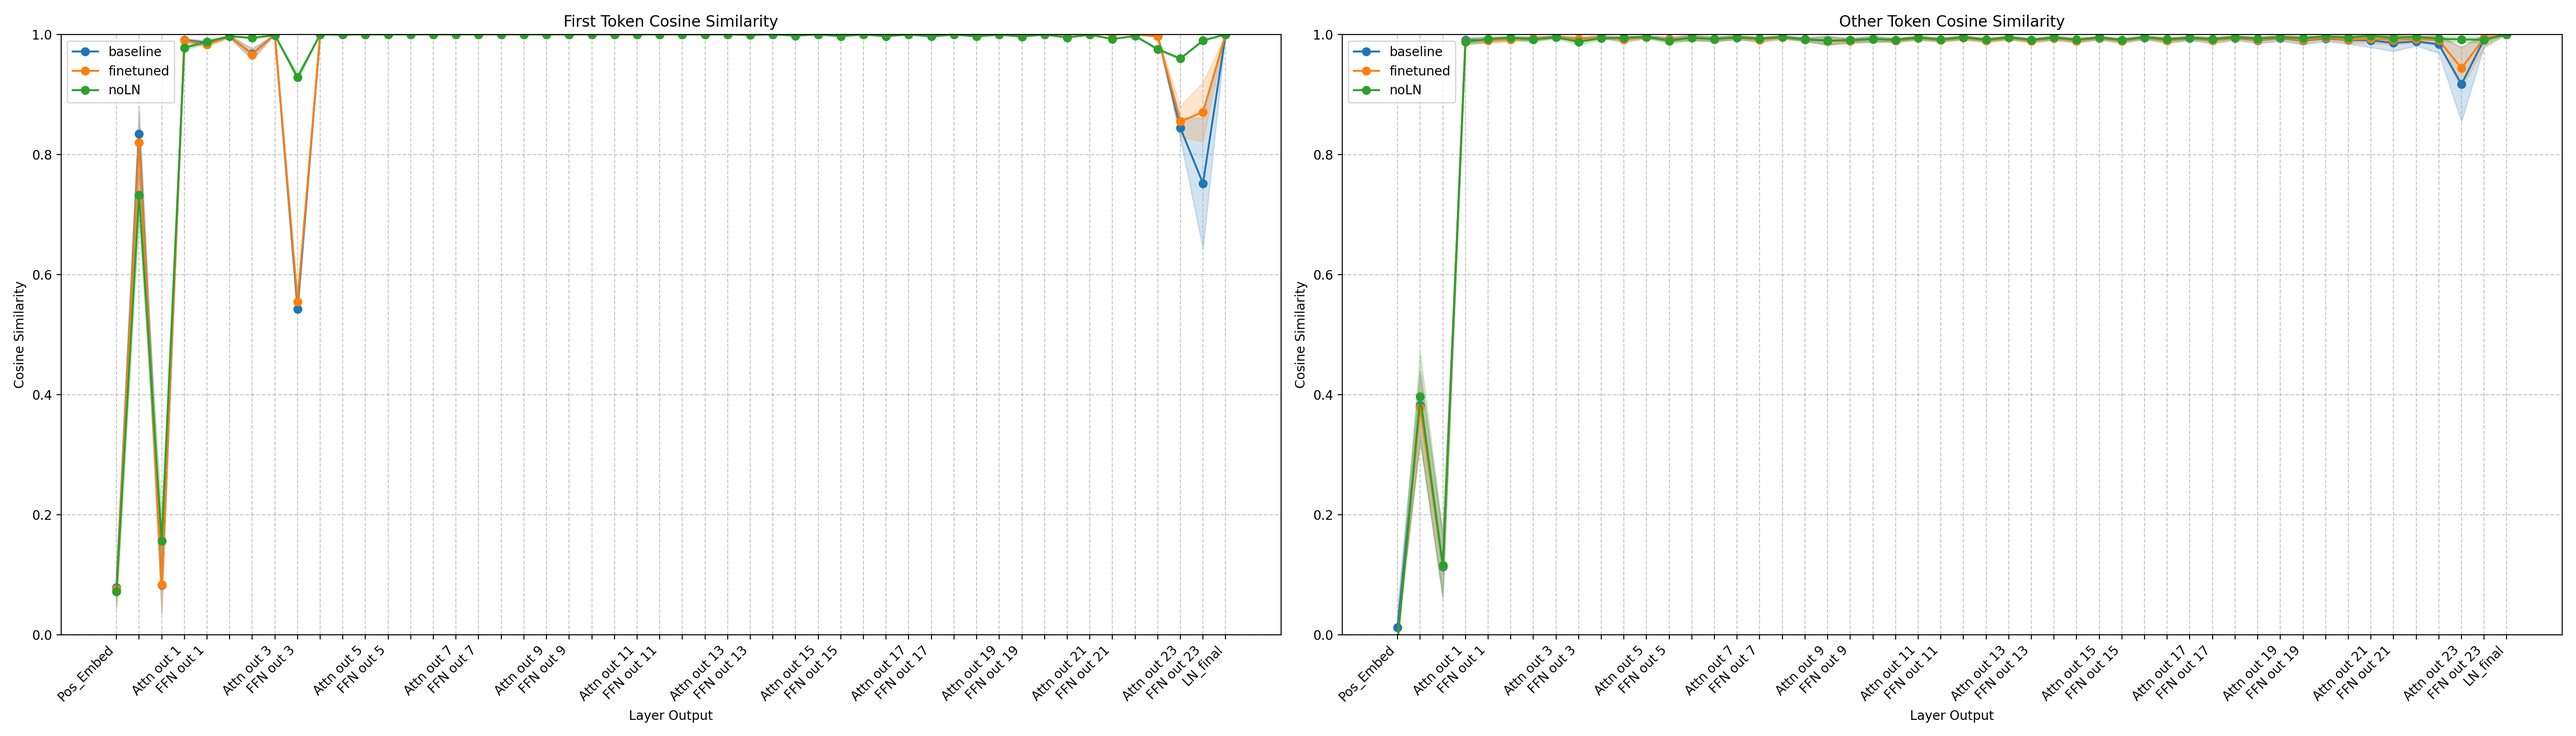
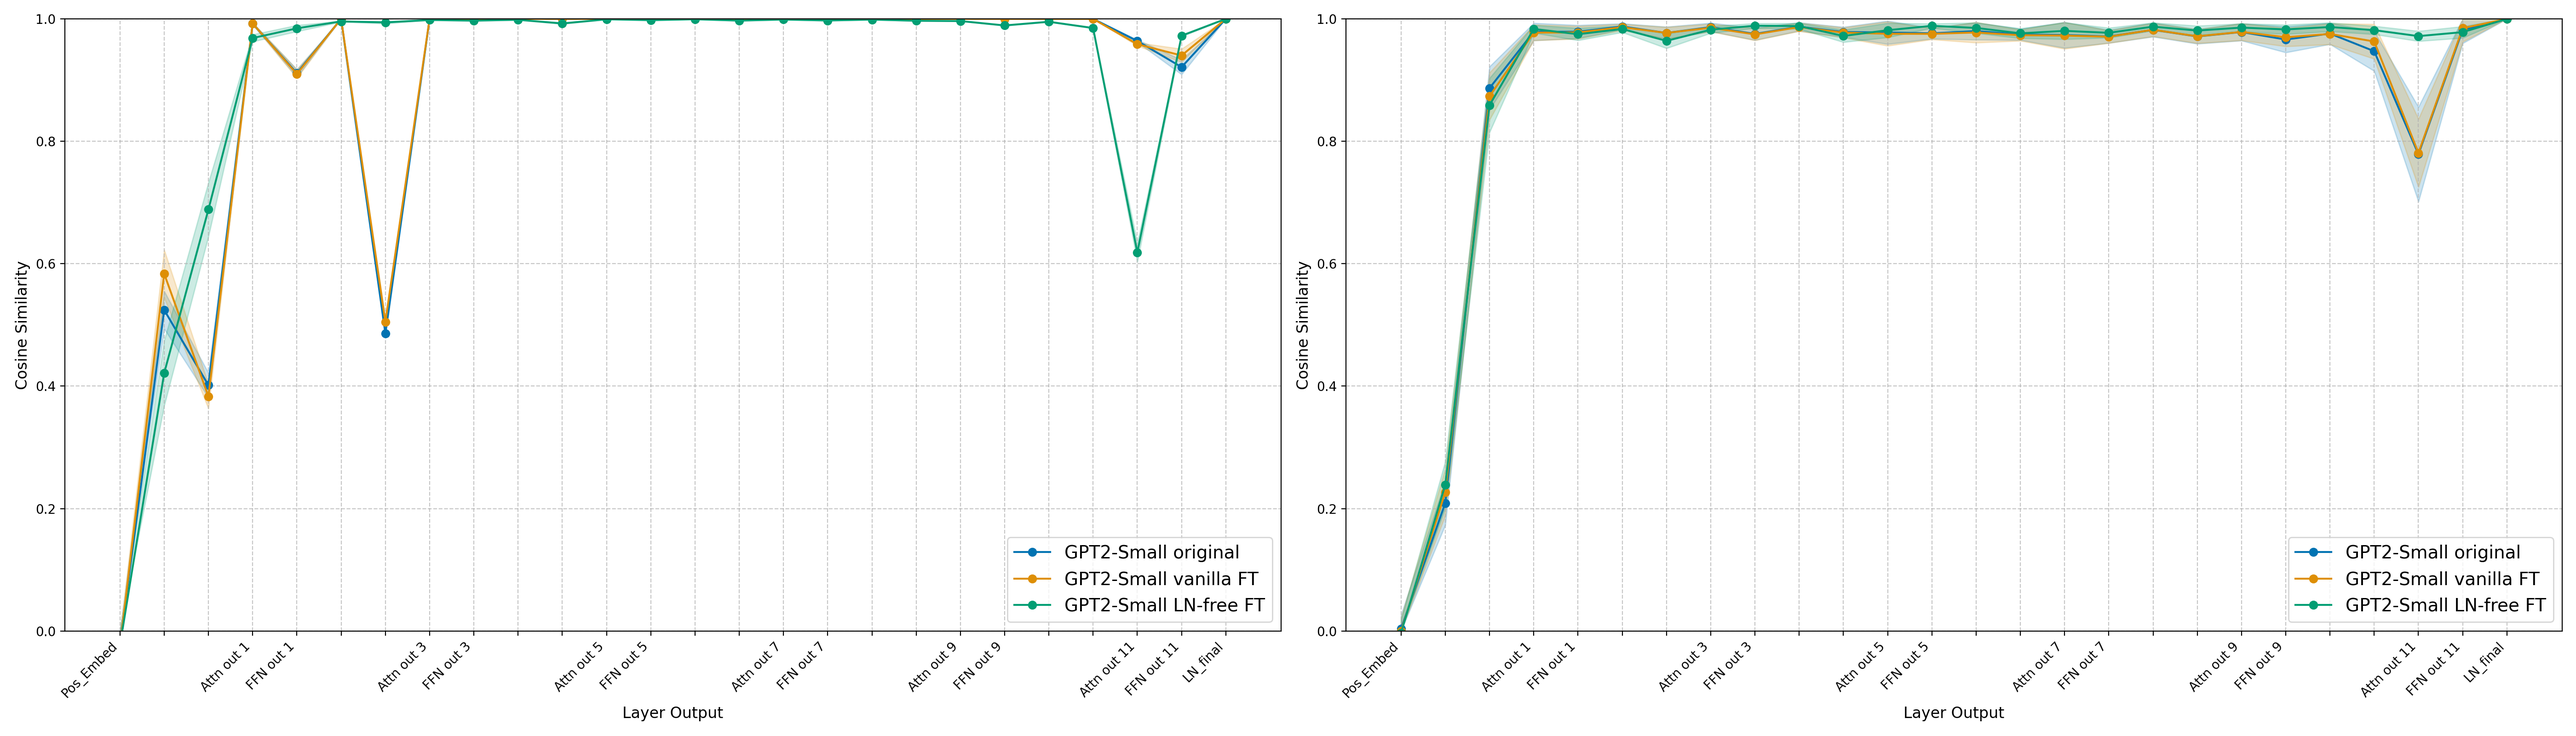
residual stream plotting format finalised

diff --git a/mech_interp/residual_stream/residual_norms.py b/mech_interp/residual_stream/residual_norms.py
@@ -2,11 +2,10 @@ import os
 import sys
 import numpy as np
 import pandas as pd
-import matplotlib.pyplot as plt
-import matplotlib.animation as animation
 import torch
-from typing import Dict, List, Optional, Union, Literal, Tuple
-from transformer_lens import HookedTransformer
+import matplotlib.pyplot as plt
+import seaborn as sns
+from typing import Dict, Optional, Union
 from tqdm import tqdm
 
 # Add parent directory to path
@@ -56,12 +55,18 @@ class ResidualNorms:
                                           model_size=model_size)
 
         # Set up color schemes for consistent visualization
-        self.colors = plt.rcParams['axes.prop_cycle'].by_key()['color']
+        self.colors = sns.color_palette("colorblind")
         self.model_colors = {
             'baseline': self.colors[0],
             'finetuned': self.colors[1],
             'noLN': self.colors[2]
         }
+        model_str = model_size.capitalize()
+        self.model_labels = {
+                    'baseline': f'GPT2-{model_str} original',
+                    'finetuned': f'GPT2-{model_str} vanilla FT',
+                    'noLN': f'GPT2-{model_str} LN-free FT'
+                }
 
         self.l2_norms = {model_name: {} for model_name in self.model_names}
         self.norm_growth_results = {model_name: {} for model_name in self.model_names}
@@ -367,7 +372,8 @@ class ResidualNorms:
                 
                 # Plot with shaded uncertainty region
                 x = np.arange(len(means))
-                ax.plot(x, means, 'o-', label=model_name, color=self.model_colors[model_name])
+                ax.plot(x, means, 'o-', label=self.model_labels[model_name],
+                        color=self.model_colors[model_name])
                 ax.fill_between(x, 
                                [m - s for m, s in zip(means, stds)],
                                [m + s for m, s in zip(means, stds)],
@@ -375,13 +381,13 @@ class ResidualNorms:
             
             # Set labels and title
             readable_labels = create_readable_tick_labels(x_labels)
-            ax.set_xlabel('Layer')
-            ax.set_ylabel('L2 Norm')
-            ax.set_title(f'{pos_title}')
+            ax.set_xlabel('Layer', fontsize=12)
+            ax.set_ylabel('L2 Norm', fontsize=12)
+            #ax.set_title(f'{pos_title}')
             ax.set_xticks(np.arange(len(x_labels)))
             ax.set_xticklabels(readable_labels, rotation=45, ha='right')
             ax.grid(True, linestyle='--', alpha=0.7)
-            ax.legend()
+            ax.legend(loc='upper right', fontsize=14)
 
             # Set consistent y-axis limits for both subplots
             ax.set_ylim(global_min * 0.9, global_max * 1.1)
@@ -462,23 +468,24 @@ class ResidualNorms:
                         stds.append(std)
                 
                 # Plot with shaded uncertainty region
-                ax.plot(x, means, 'o-', label=model_name, color=self.model_colors[model_name])
+                ax.plot(x, means, 'o-', label=self.model_labels[model_name],
+                        color=self.model_colors[model_name])
                 ax.fill_between(x,
                                [max(0, m - s) for m, s in zip(means, stds)],  # Ensure lower bound >= 0
                                [min(1, m + s) for m, s in zip(means, stds)],  # Ensure upper bound <= 1
                                alpha=0.2, color=self.model_colors[model_name])
             
             # Set labels and title
-            ax.set_xlabel('Layer Output')
-            ax.set_ylabel('Cosine Similarity')
-            ax.set_title(f'{pos_title}')
+            ax.set_xlabel('Layer Output', fontsize=12)
+            ax.set_ylabel('Cosine Similarity', fontsize=12)
+            #ax.set_title(f'{pos_title}',)
             
             # Set x-ticks
             readable_labels = create_readable_tick_labels(x_labels)
             ax.set_xticks(np.arange(len(x_labels)))
             ax.set_xticklabels(readable_labels, rotation=45, ha='right')
             ax.grid(True, linestyle='--', alpha=0.7)
-            ax.legend()
+            ax.legend(fontsize=14)
             
             # Set y-axis limits between 0 and 1
             ax.set_ylim(0, 1)
@@ -568,7 +575,8 @@ class ResidualNorms:
                         stds.append(std)
                 
                 # Plot with shaded uncertainty region
-                ax.plot(x, means, 'o-', label=model_name, color=self.model_colors[model_name])
+                ax.plot(x, means, 'o-', label=self.model_labels[model_name],
+                        color=self.model_colors[model_name])
                 ax.fill_between(x, 
                                [m - s for m, s in zip(means, stds)],
                                [m + s for m, s in zip(means, stds)],
@@ -579,13 +587,13 @@ class ResidualNorms:
             
             # Set labels and title
             readable_labels = create_readable_tick_labels(x_labels)
-            ax.set_xlabel('Layer Transition')
-            ax.set_ylabel('L2 Norm Growth Ratio (Output/Input)')
-            ax.set_title(f'{pos_title}')
+            ax.set_xlabel('Layer Transition', fontsize=12)
+            ax.set_ylabel('L2 Norm Growth Ratio (Output/Input)', fontsize=12)
+            #ax.set_title(f'{pos_title}')
             ax.set_xticks(np.arange(len(x_labels)))
             ax.set_xticklabels(readable_labels, rotation=45, ha='right')
             ax.grid(True, linestyle='--', alpha=0.7)
-            ax.legend()
+            ax.legend(fontsize=14)
 
             # Set consistent y-axis limits for both subplots
             ax.set_ylim(global_min * 0.9, global_max * 1.1)
@@ -647,16 +655,17 @@ def create_readable_tick_labels(layers):
 
 
 if __name__ == '__main__':
-    data_paths = '/workspace/removing-layer-norm/mech_interp/inference_logs/gpt2-medium_dataset_luca-pile_samples_1000_seqlen_512_prepend_False/inference_results.parquet'
-    output_dir = 'figures/medium/bos_vs_rest'
+    model_str = 'small'
+    data_paths = f'/workspace/removing-layer-norm/mech_interp/inference_logs/gpt2-{model_str}_dataset_luca-pile_samples_1000_seqlen_512_prepend_False/inference_results.parquet'
+    output_dir = 'figures/medium/last_token'
     # Ensure output directory exists
     os.makedirs(output_dir, exist_ok=True)
     
     analyzer = ResidualNorms(
         data_paths=data_paths,
         model_dir="../models",
-        last_token_only=False,
-        model_size='medium'
+        last_token_only=True,
+        model_size=model_str
     )
     
     # Run analysis and generate plots
